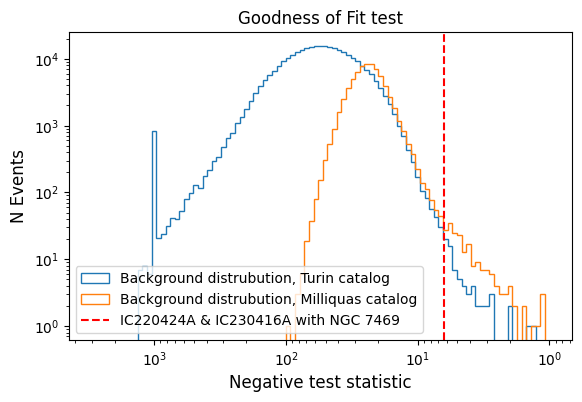
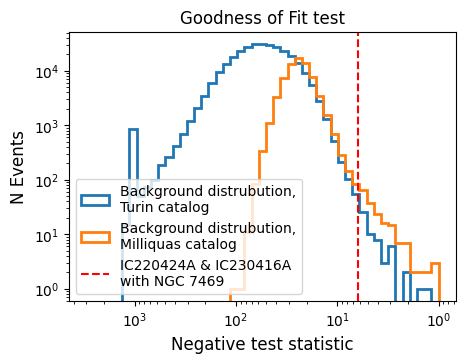
Updated TS distr plots

Changed region(s): [[0.0, 0.0303, 0.9914, 1.0], [0.6309, 0.4848, 0.6609, 0.5152]]

diff --git a/src/plot_test_statistics.py b/src/plot_test_statistics.py
@@ -10,14 +10,15 @@ MILLIQUAS = "milliquas"
 REDSHIFT = "redshift"
 XRAY = "xray"
 TS_FILENAME = "test_statistic"
-FIGSIZE = (6.5, 4)
-TURIN_LABEL = "Background distrubution, Turin catalog"
-MILLIQUAS_LABEL = "Background distrubution, Milliquas catalog"
+FIGSIZE = (5, 3.5)
+TURIN_LABEL = "Background distrubution,\nTurin catalog"
+MILLIQUAS_LABEL = "Background distrubution,\nMilliquas catalog"
 HISTTYPE = "step"
-NBINS = 100
+NBINS = 50
+LINEWIDTH = 2
 AXVCOLOR = "red"
 AXVLINESTYLE = "--"
-AXVLABEL = "IC220424A & IC230416A with NGC 7469"
+AXVLABEL = "IC220424A & IC230416A\nwith NGC 7469"
 XLABEL = "Negative test statistic"
 YLABEL = "N Events"
 TITLE = "Goodness of Fit test"
@@ -48,12 +49,14 @@ plt.hist(
     -ts_spl_tur_z,
     histtype=HISTTYPE,
     bins=logbins,
+    linewidth = LINEWIDTH,
     label= TURIN_LABEL
 )
 plt.hist(
     -ts_spl_mil_z,
     histtype=HISTTYPE,
     bins=logbins,
+    linewidth = LINEWIDTH,
     label= MILLIQUAS_LABEL
 )
 plt.axvline(
